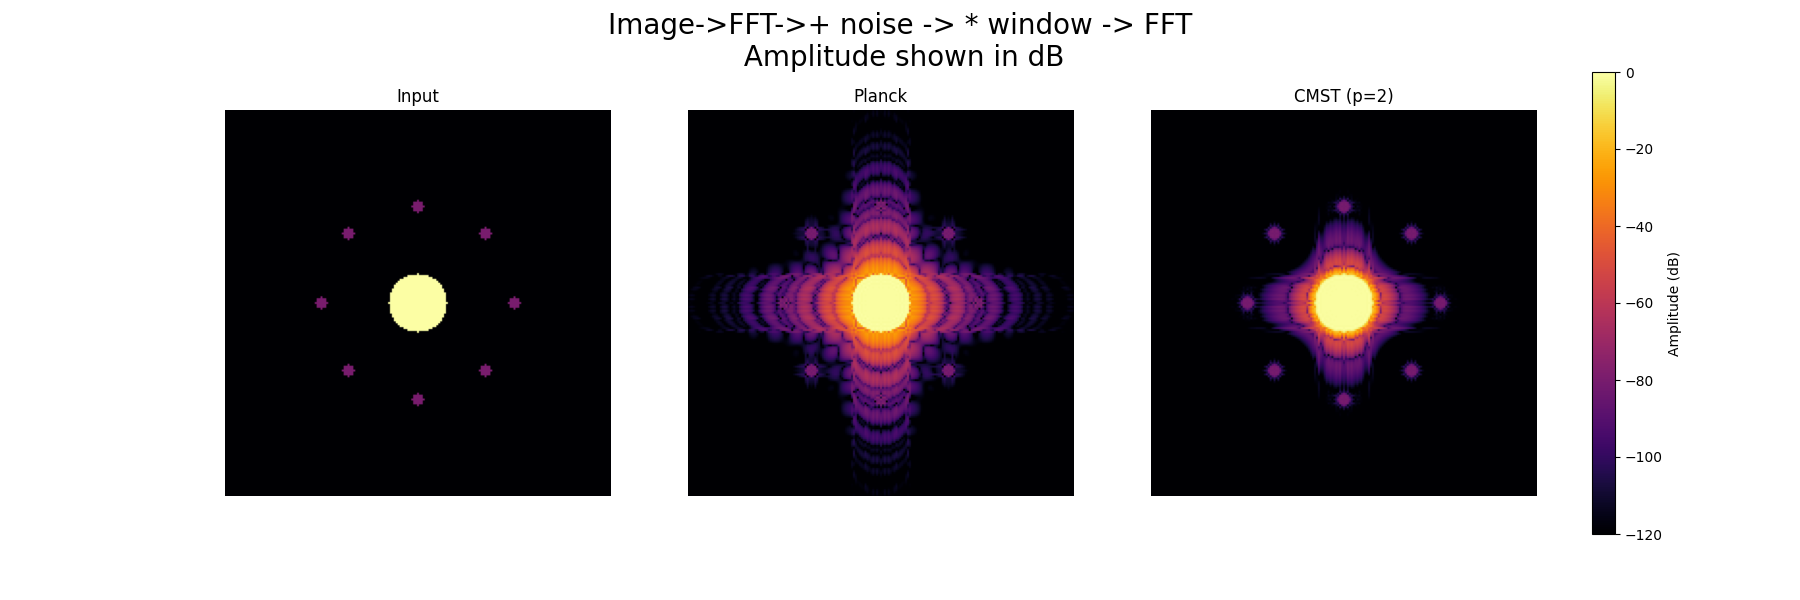
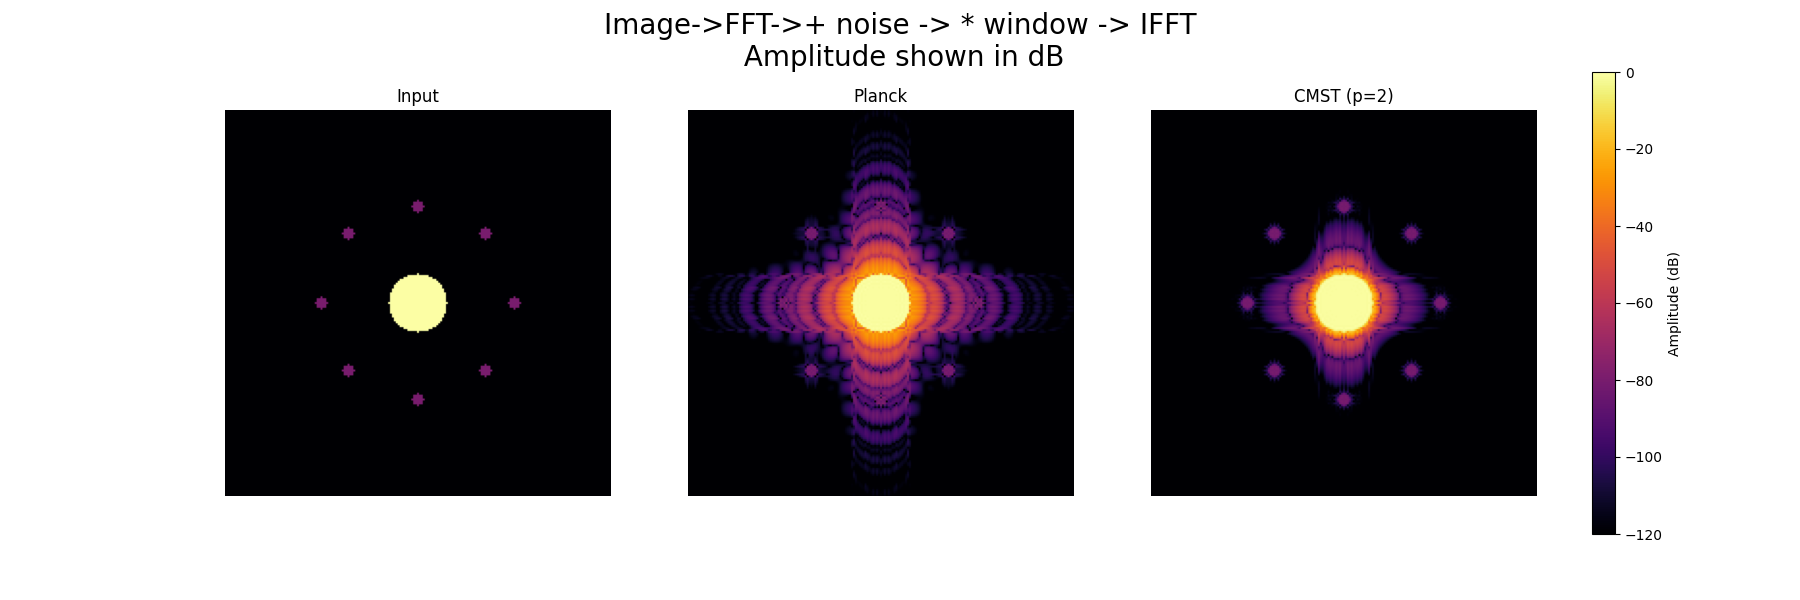
FFT->IFFT

Changed region(s): [[0.3111, 0.0, 0.6844, 0.06]]

diff --git a/examples/11_planets.py b/examples/11_planets.py
@@ -221,5 +221,5 @@ planck = process_fft(fft_result_n,w_planck_2d)
 
 cmst = process_fft(fft_result_n,w_cmst_2d)
 
-show_comparison_plots(img_clean_log,planck,cmst,"Image->FFT->+ noise -> * window -> FFT\n Amplitude shown in dB", titles = ["Input","Planck", "CMST (p=2)"])
+show_comparison_plots(img_clean_log,planck,cmst,"Image->FFT->+ noise -> * window -> IFFT\n Amplitude shown in dB", titles = ["Input","Planck", "CMST (p=2)"])
 
